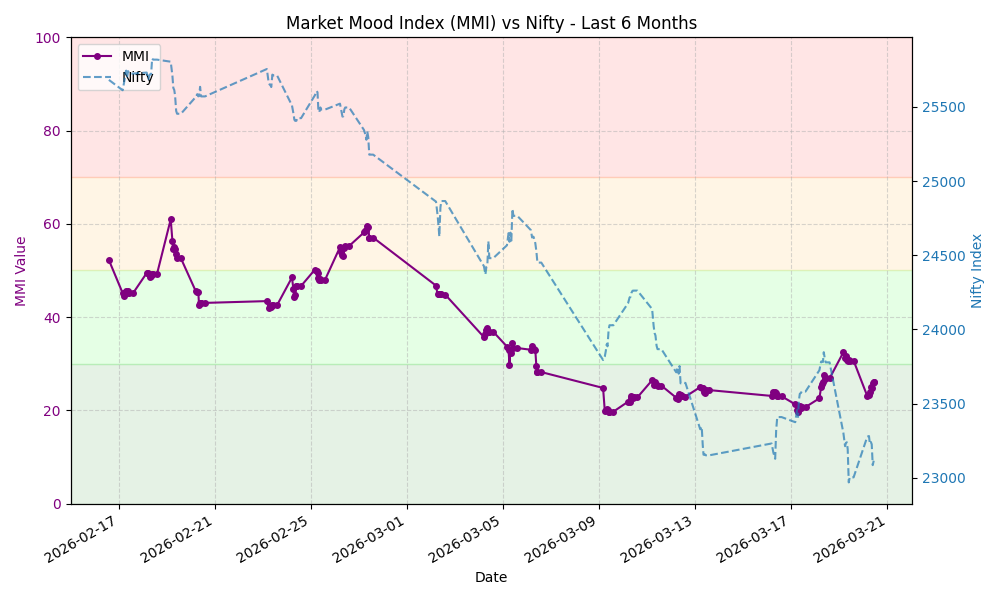
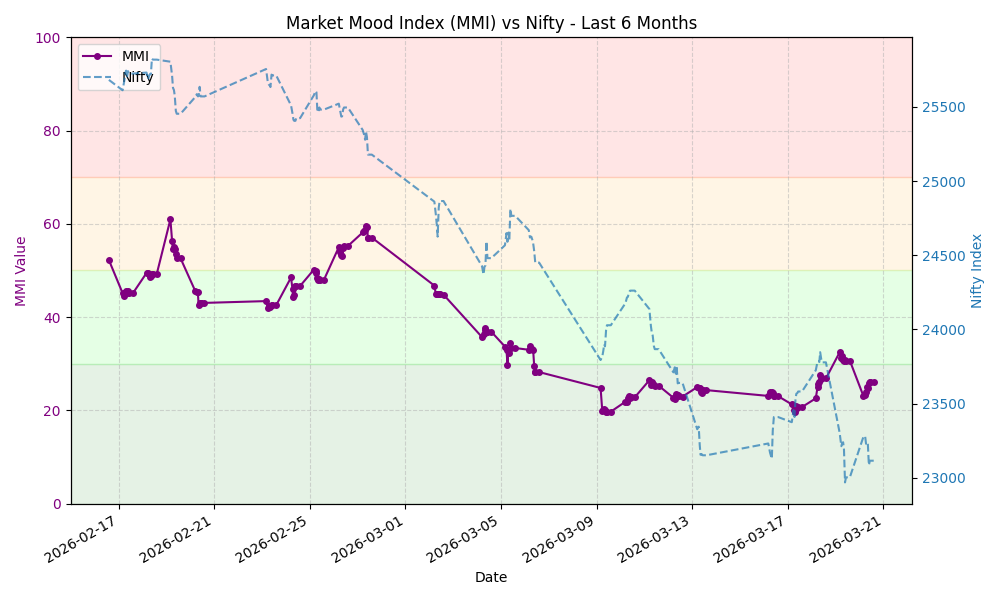
Update MMI data and chart

diff --git a/README.md b/README.md
@@ -7,8 +7,8 @@ This repository automatically fetches the MMI value, stores the history, and gen
 
 ## Latest MMI Value
 
-**26.01** - **Extreme Fear**
-<small>Last Updated: 2026-03-20 10:27 UTC</small>
+**25.99** - **Extreme Fear**
+<small>Last Updated: 2026-03-20 14:20 UTC</small>
 
 ## MMI Trend (Last 30 Days)
 
